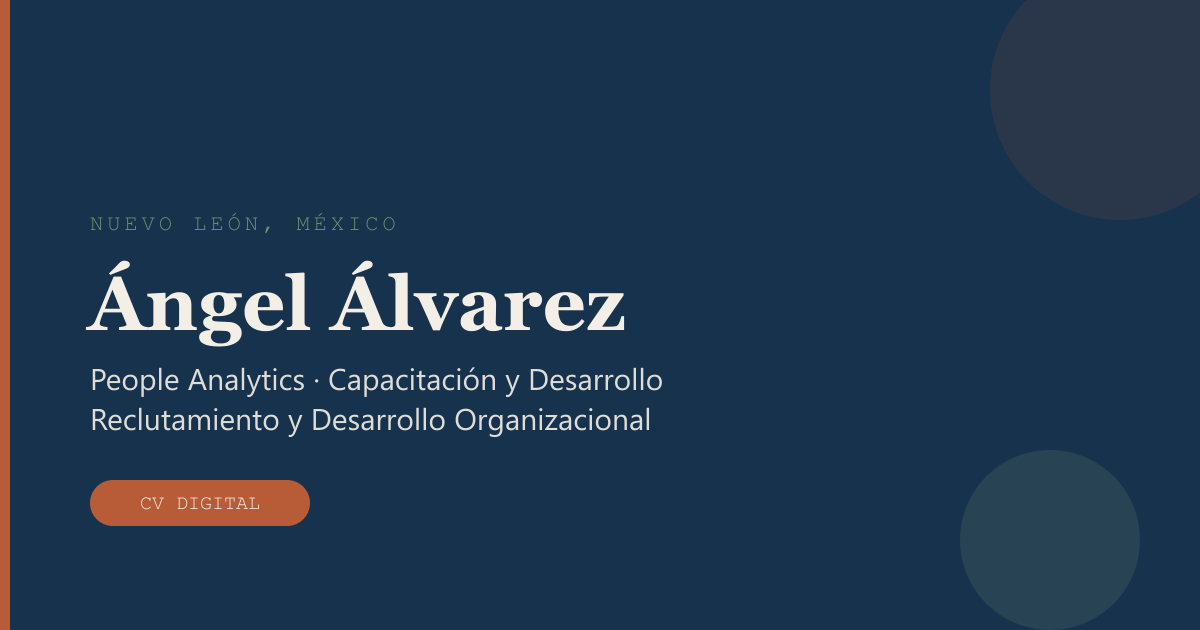
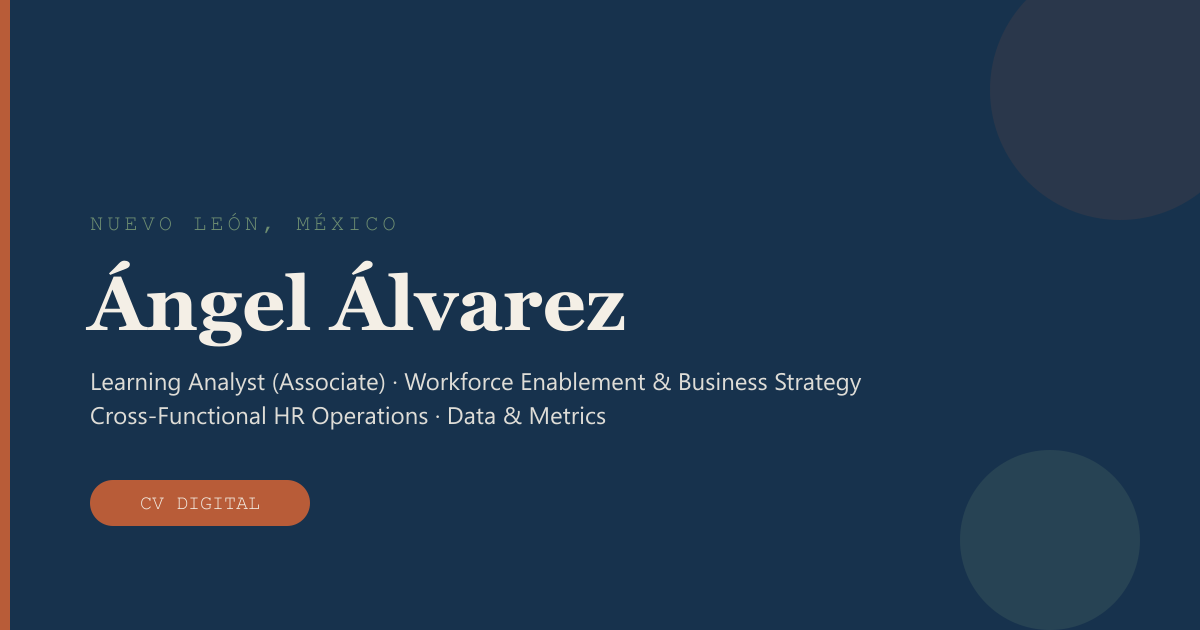
Update page title, OG/Twitter preview, and OG image to full headline
Title, og:title, twitter:title and JSON-LD jobTitle now carry the
full professional headline instead of the shorter Spanish tagline:
"Learning Analyst (Associate) | Workforce Enablement & Business
Strategy | Cross-Functional HR Operations | Data & Metrics".
Also regenerate og-image.png with this text (split across two lines
at a smaller size to fit) so the shared-link preview card matches.
Fixed unescaped & in the title/og:title/twitter:title attributes
(needs &amp; in HTML; the JSON-LD script tag correctly keeps a
literal & since that's raw JSON, not markup).

Changed region(s): [[0.0617, 0.573, 0.7092, 0.6937]]

diff --git a/index.html b/index.html
@@ -4,7 +4,7 @@
     <meta charset="UTF-8" />
     <meta name="viewport" content="width=device-width, initial-scale=1.0" />
 
-    <title>Ángel Álvarez — CV Digital | People Analytics y Capacitación</title>
+    <title>Ángel Álvarez | Learning Analyst (Associate) | Workforce Enablement &amp; Business Strategy | Cross-Functional HR Operations | Data &amp; Metrics</title>
     <meta
       name="description"
       content="CV digital de Ángel Álvarez: People Analytics, Capacitación y Desarrollo, Reclutamiento y Desarrollo Organizacional. Proyectos, publicaciones y experiencia verificables."
@@ -27,7 +27,7 @@
 
     <!-- Open Graph -->
     <meta property="og:type" content="profile" />
-    <meta property="og:title" content="Ángel Álvarez — CV Digital | People Analytics y Capacitación" />
+    <meta property="og:title" content="Ángel Álvarez | Learning Analyst (Associate) | Workforce Enablement &amp; Business Strategy | Cross-Functional HR Operations | Data &amp; Metrics" />
     <meta
       property="og:description"
       content="People Analytics, Capacitación y Desarrollo, Reclutamiento y Desarrollo Organizacional. Proyectos y logros verificables."
@@ -42,7 +42,7 @@
 
     <!-- Twitter Card -->
     <meta name="twitter:card" content="summary_large_image" />
-    <meta name="twitter:title" content="Ángel Álvarez — CV Digital | People Analytics y Capacitación" />
+    <meta name="twitter:title" content="Ángel Álvarez | Learning Analyst (Associate) | Workforce Enablement &amp; Business Strategy | Cross-Functional HR Operations | Data &amp; Metrics" />
     <meta
       name="twitter:description"
       content="People Analytics, Capacitación y Desarrollo, Reclutamiento y Desarrollo Organizacional."
@@ -55,7 +55,7 @@
         "@type": "Person",
         "name": "Jesús Ángel Álvarez González",
         "alternateName": "Ángel Álvarez",
-        "jobTitle": "People Analytics · Capacitación y Desarrollo · Reclutamiento y Desarrollo Organizacional",
+        "jobTitle": "Learning Analyst (Associate) | Workforce Enablement & Business Strategy | Cross-Functional HR Operations | Data & Metrics",
         "url": "https://angel-alvarez-cv.vercel.app/",
         "email": "mailto:alvarezgzx@gmail.com",
         "sameAs": ["https://linkedin.com/in/angelalvarezg97"],
